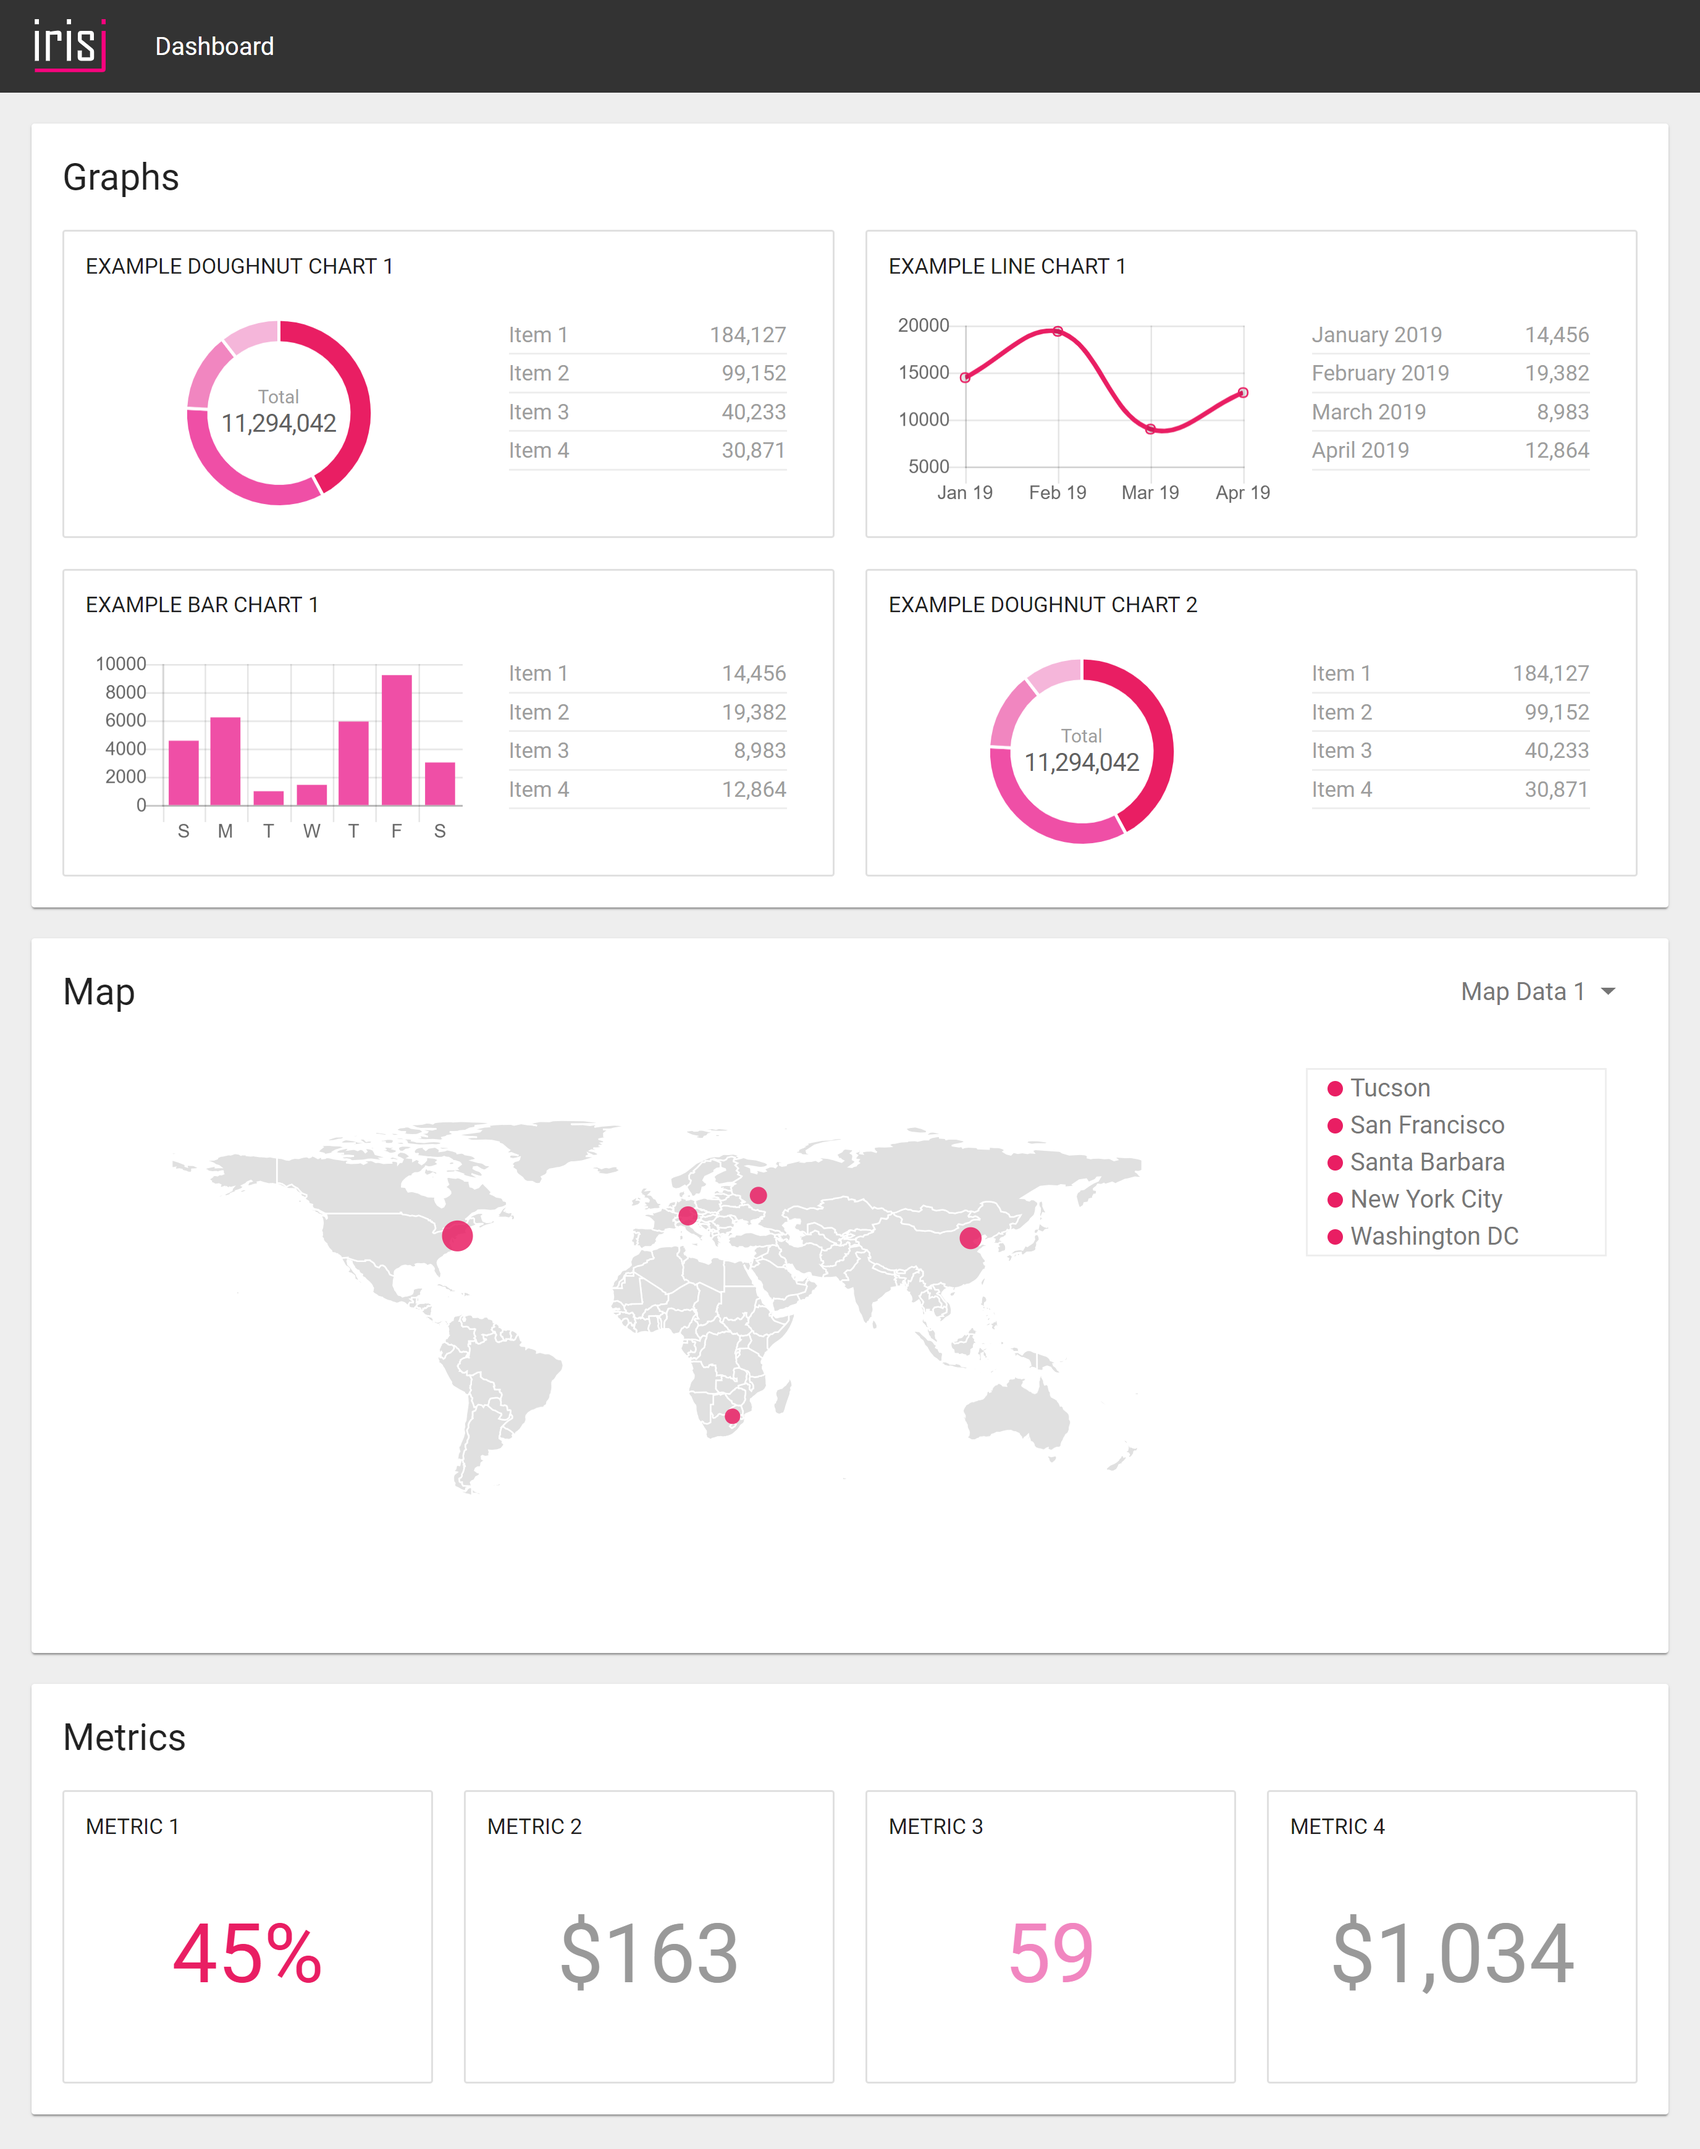
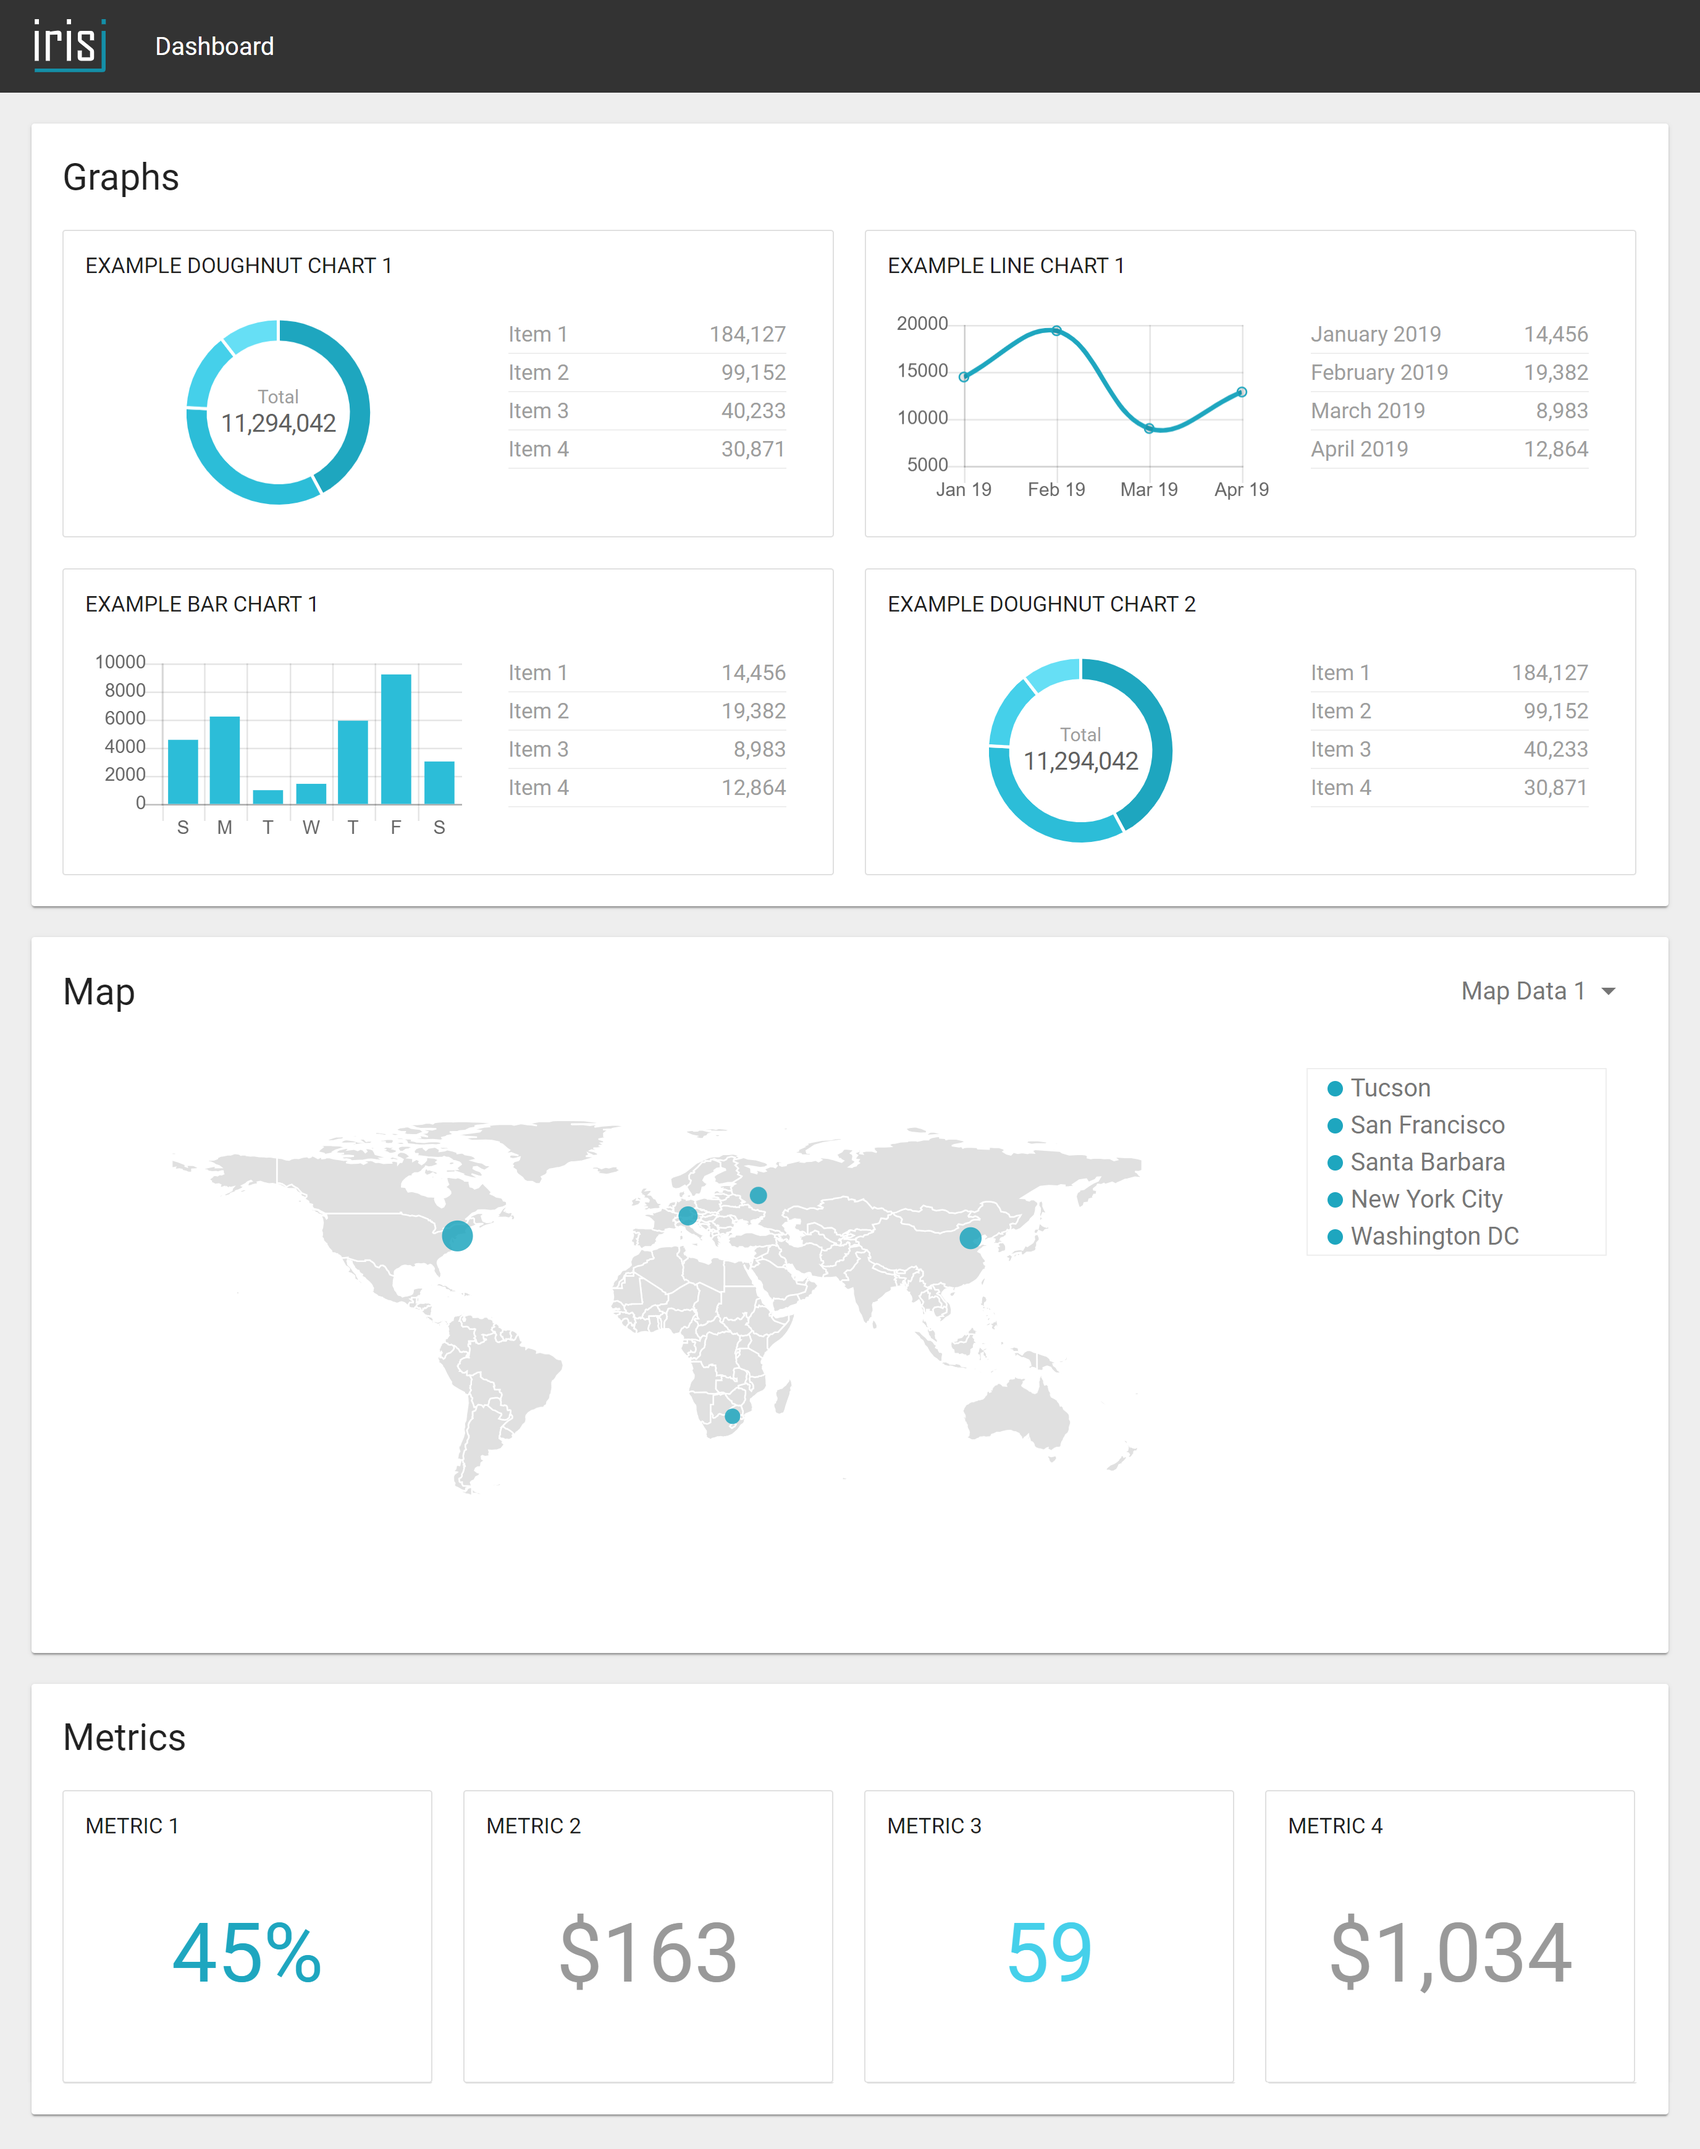
Changed color from pink to teak

diff --git a/src/app/chart/chart.component.ts b/src/app/chart/chart.component.ts
@@ -33,7 +33,8 @@ export class ChartComponent implements OnInit {
                     datasets: [
                         {
                             data: this.chartData,
-                            borderColor: '#E91E63',
+                            //borderColor: '#E91E63',
+                            borderColor: '#1ea6bf',
                             fill: false
                         }
                     ]
@@ -65,7 +66,8 @@ export class ChartComponent implements OnInit {
                     datasets: [
                         {
                             data: this.chartData,
-                            backgroundColor: '#ef4fa6',
+                            //backgroundColor: '#ef4fa6',
+                            backgroundColor: '#2cbdd8',
                             fill: false
                         }
                     ]
@@ -110,7 +112,8 @@ export class ChartComponent implements OnInit {
                     datasets: [
                         {
                             data: this.chartData,
-                            backgroundColor: ['#E91E63', '#ef4fa6', '#f186c0', '#f5b6da']
+                            //backgroundColor: ['#E91E63', '#ef4fa6', '#f186c0', '#f5b6da']
+                            backgroundColor: ['#1ea6bf', '#2cbdd8', '#45d0ea', '#66dff5']
                         }
                     ]
                 },

diff --git a/src/app/map/map.component.ts b/src/app/map/map.component.ts
@@ -107,7 +107,8 @@ export class MapComponent implements OnInit, AfterViewInit {
             .attr('r', (d) => {
                 return this.calculateRadius(d.metric);
             })
-                .style('fill', 'rgb(233,30,99)')
+                //.style('fill', 'rgb(233,30,99)')
+                .style('fill', 'rgb(30,166,191)')
                 .style('opacity', 0.85)
             // show tooltip
             .on('mouseover', (d) => {

diff --git a/src/app/metric/metric.component.scss b/src/app/metric/metric.component.scss
@@ -17,7 +17,8 @@
         height: 100px;
         line-height: 100px;
         font-size: 53px;
-        color: #f186c0;
+        //color: #f186c0;
+        color: #45d0ea;
 
         &.medium {
             font-size: 42px;
@@ -35,7 +36,8 @@
         }
 
         &.positive {
-            color: #E91E63;
+            //color: #E91E63;
+            color: #1ea6bf;
         }
 
         &.negative {

diff --git a/src/app/map/map.component.scss b/src/app/map/map.component.scss
@@ -43,7 +43,8 @@
     }
 
     .dot {
-        background-color: #E91E63;
+        //background-color: #E91E63;
+        background-color: #1ea6bf;
         border-radius: 5px;
         display: inline-block;
         height: 10px;

diff --git a/src/styles.scss b/src/styles.scss
@@ -8,5 +8,5 @@ body {
 }
 
 .logo {
-    background: url('irisj-logo-white.svg') top left no-repeat;
+    background: url('irisj-logo-teal-white.svg') top left no-repeat;
 }
